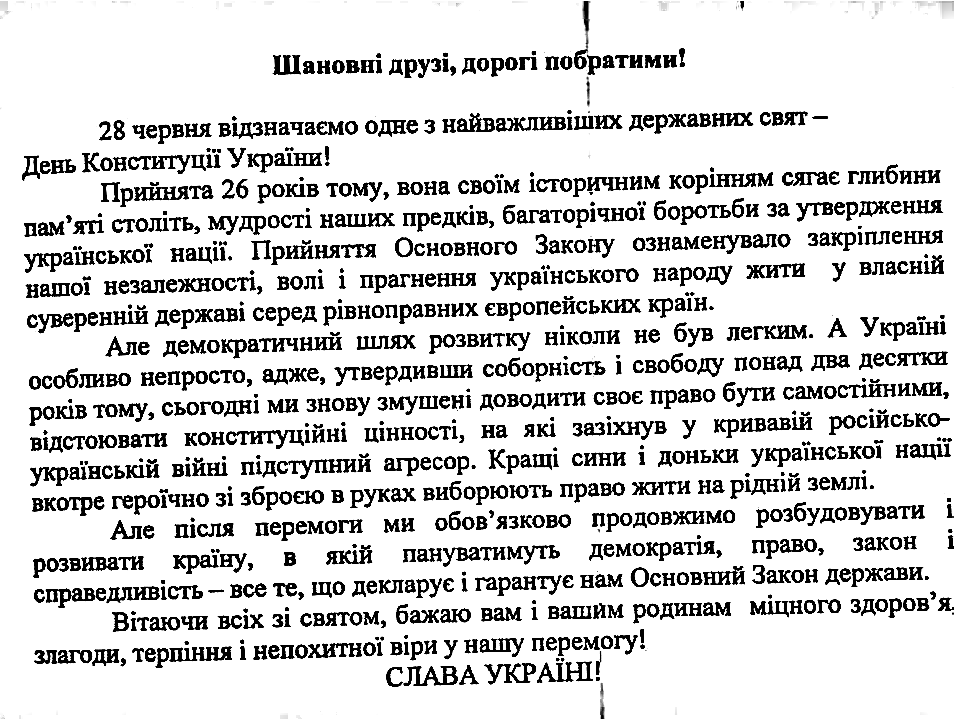
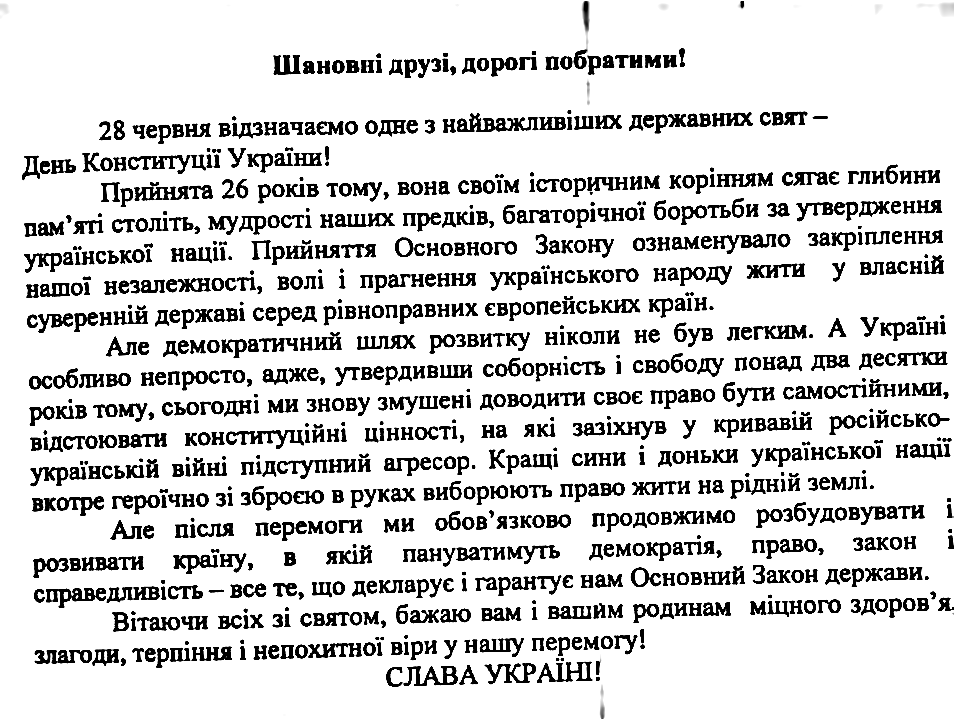
Denoising

Changed region(s): [[0.608, 0.9472, 0.6384, 1.0], [0.608, 0.0, 0.6384, 0.0611]]

diff --git a/clean.py b/clean.py
@@ -5,9 +5,11 @@ from pathlib import Path
 from numpy import uint8, vectorize
 from skimage.filters import threshold_local
 from skimage.io import imread, imsave
+from skimage.restoration import denoise_tv_chambolle
 
 BLOCK_SIZE = 99
 OFFSET = 10 / 255
+DENOISE_WEIGHT = 0.03
 STRENGTH_THRESHOLD = 0.02
 OUTPUT_SUFFIX = '-cleaned'
 OUTPUT_EXTENSION = 'png'
@@ -33,5 +35,6 @@ if not path.is_file():
     raise Exception(f'{path} is not a file')
 
 image = imread(path, as_gray=True)
+image = denoise_tv_chambolle(image, weight=DENOISE_WEIGHT)
 threshold = threshold_local(image, BLOCK_SIZE, offset=OFFSET)
 imsave(get_output_path(path), (vectorize(compute_strength)(image - threshold) * 255).astype(uint8))
